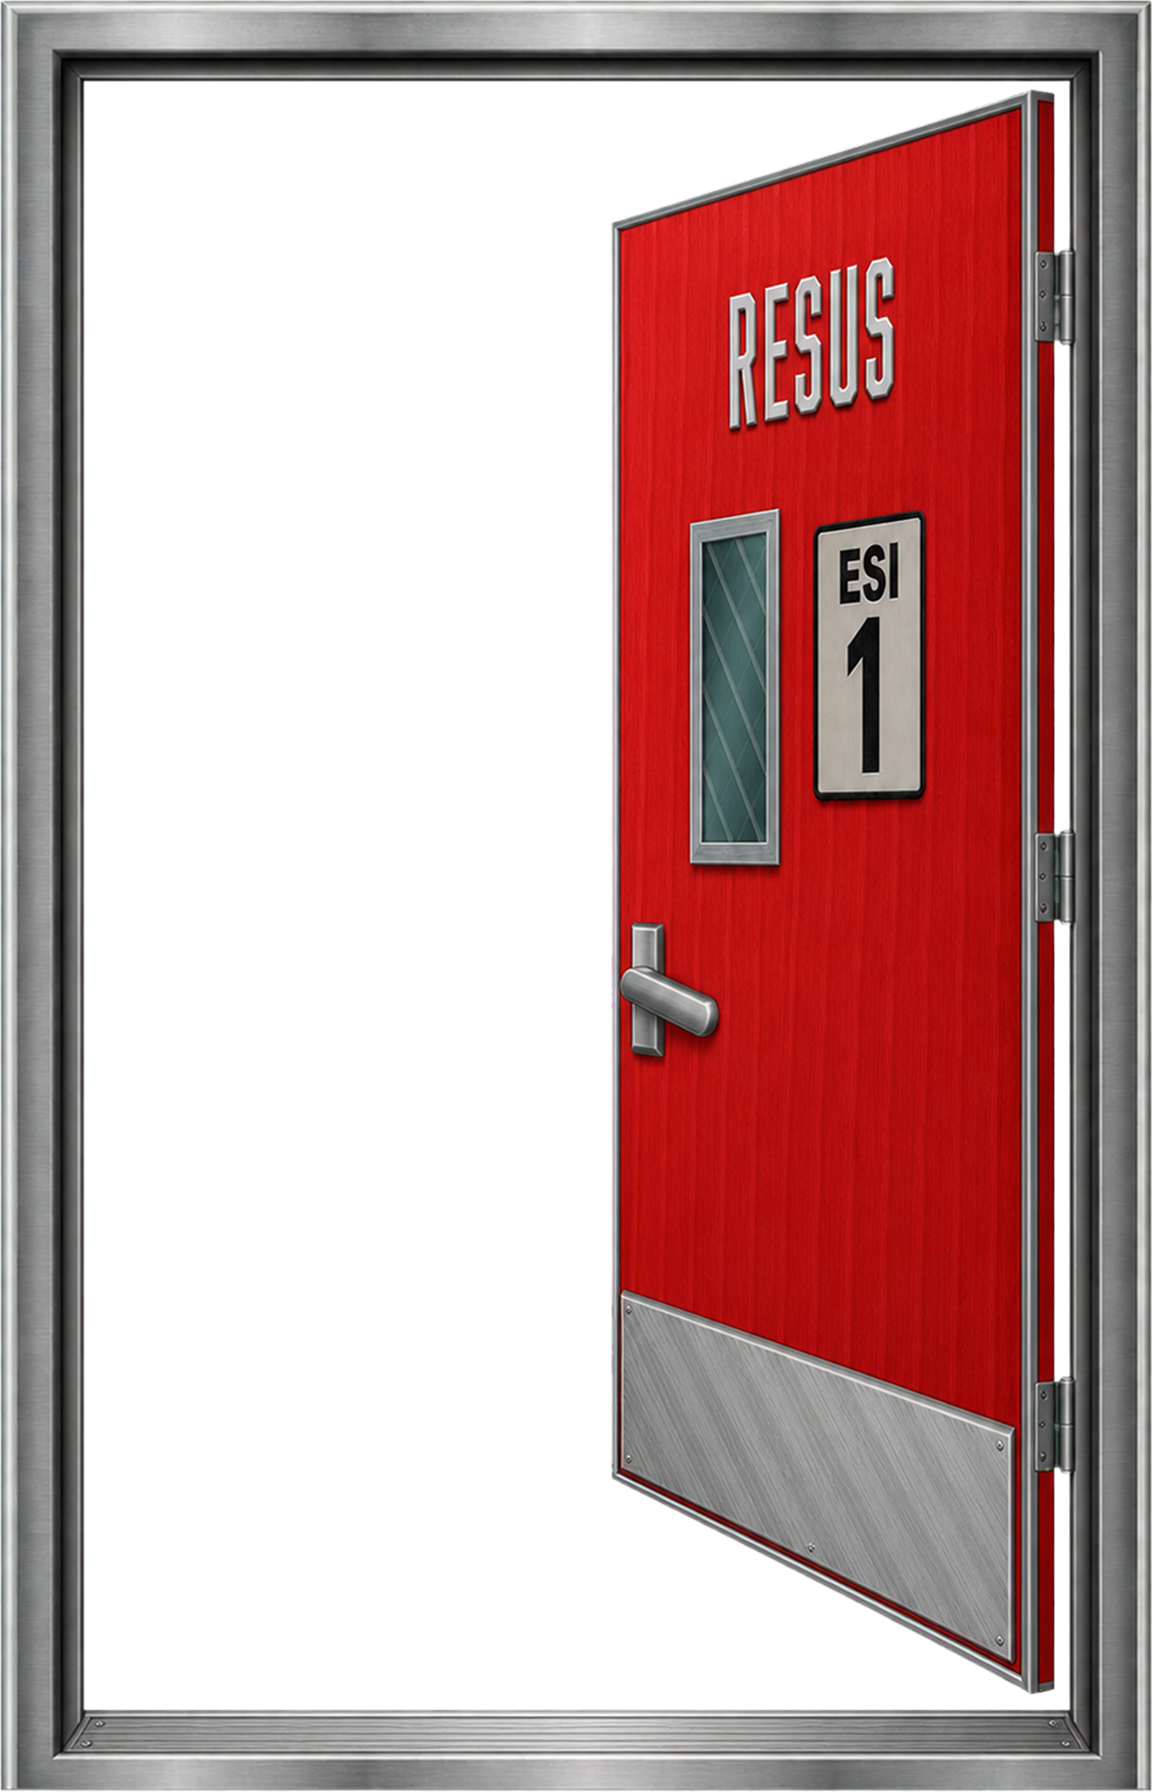
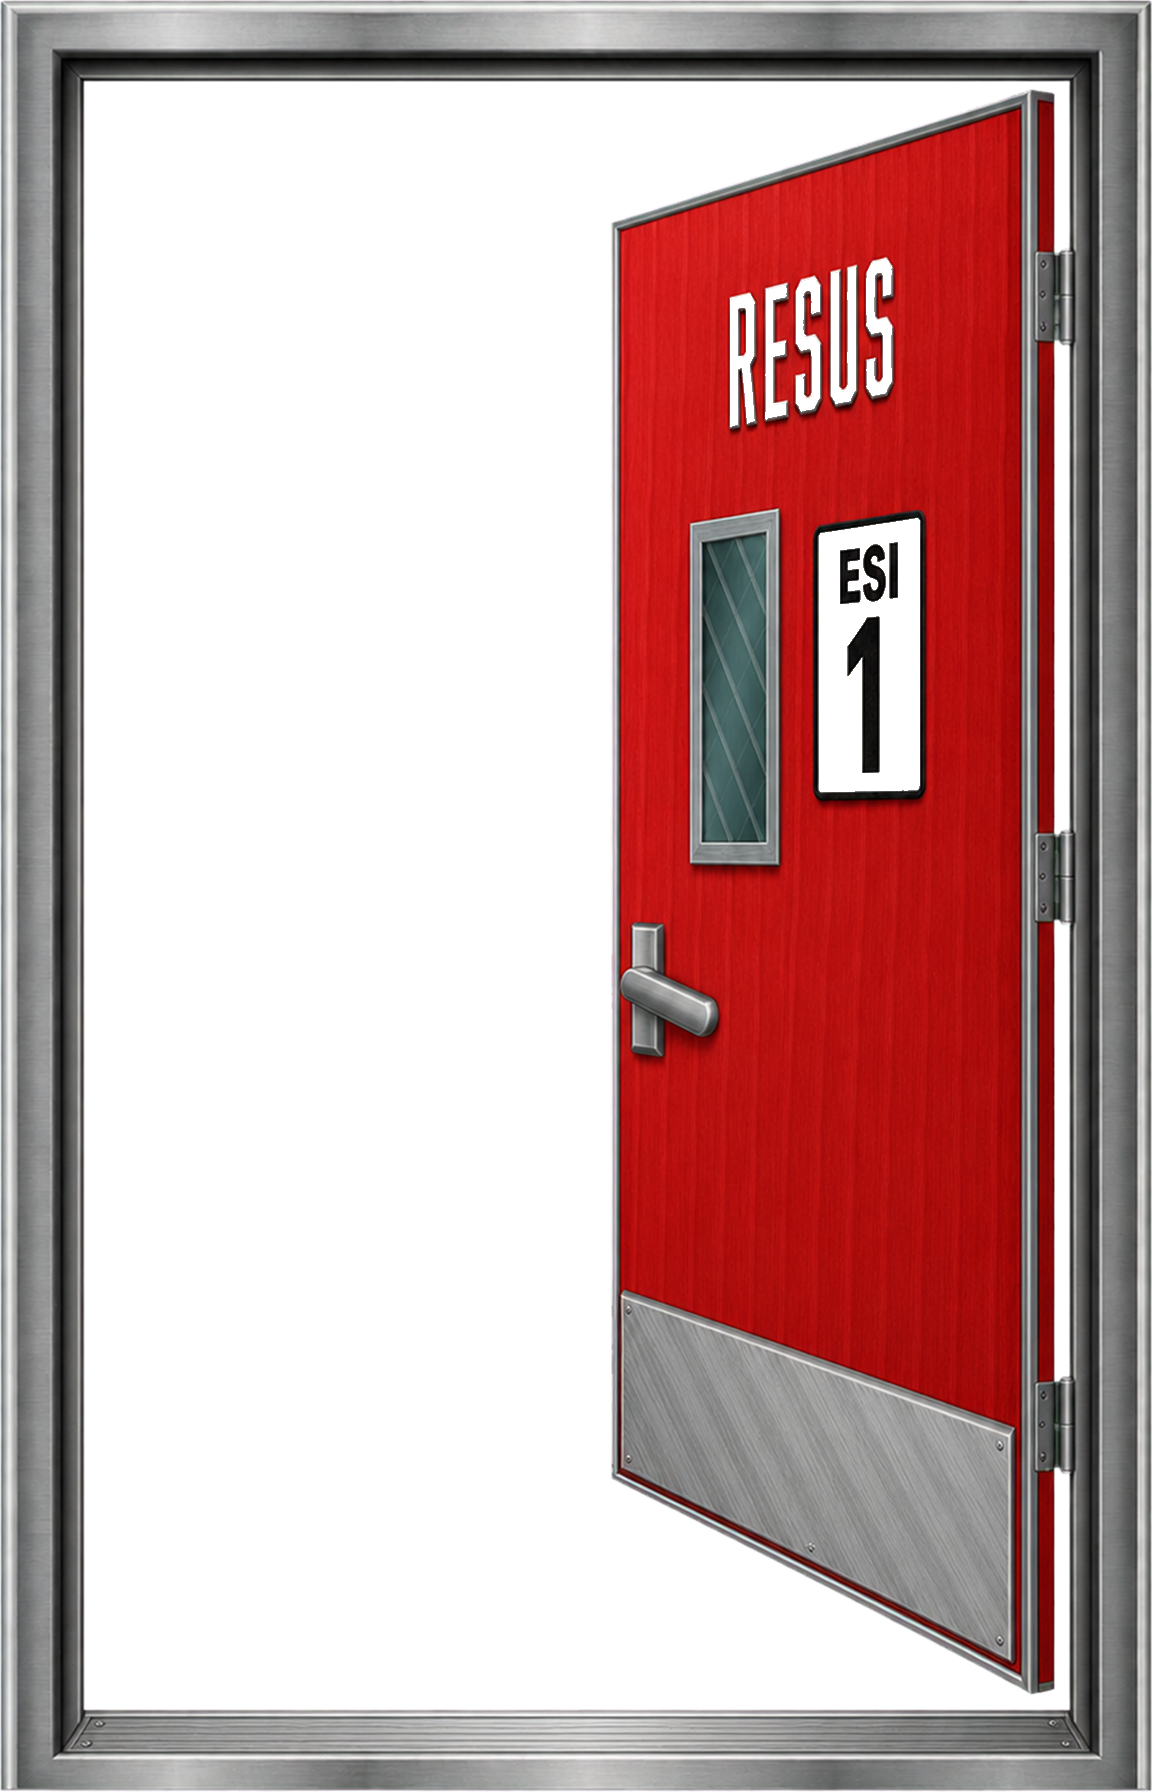
before redoing the door sign colors

Changed region(s): [[0.6875, 0.2812, 0.8125, 0.4688], [0.625, 0.125, 0.7812, 0.25]]

diff --git a/_testAppMobile/styles.css b/_testAppMobile/styles.css
@@ -34,9 +34,9 @@ body {
   display: grid;
   place-items: center;
   padding:
-    max(4px, env(safe-area-inset-top))
+    max(5dvh, env(safe-area-inset-top))
     max(4px, env(safe-area-inset-right))
-    max(4px, env(safe-area-inset-bottom))
+    max(5dvh, env(safe-area-inset-bottom))
     max(4px, env(safe-area-inset-left));
 }
 
@@ -47,8 +47,8 @@ button {
 
 .app-shell {
   position: relative;
-  width: min(100vw, calc(100dvh * 0.5625), 430px);
-  height: min(100dvh, calc(100vw * 1.7778), 764px);
+  width: min(calc(100vw - 8px), calc(90dvh * 0.5625));
+  height: min(90dvh, calc((100vw - 8px) * 1.7778));
   min-width: 300px;
   min-height: 533px;
   overflow: hidden;
@@ -124,17 +124,16 @@ button {
       calc(
         (
           100svh
-          - max(4px, env(safe-area-inset-top, 0px))
-          - max(4px, env(safe-area-inset-bottom, 0px))
+          - max(5svh, env(safe-area-inset-top, 0px))
+          - max(5svh, env(safe-area-inset-bottom, 0px))
         ) * 0.5625
-      ),
-      430px
+      )
     );
     height: min(
       calc(
         100svh
-        - max(4px, env(safe-area-inset-top, 0px))
-        - max(4px, env(safe-area-inset-bottom, 0px))
+        - max(5svh, env(safe-area-inset-top, 0px))
+        - max(5svh, env(safe-area-inset-bottom, 0px))
       ),
       calc(
         (
@@ -142,8 +141,7 @@ button {
           - max(4px, env(safe-area-inset-left, 0px))
           - max(4px, env(safe-area-inset-right, 0px))
         ) * 1.7778
-      ),
-      764px
+      )
     );
     min-width: 0;
     min-height: 0;

diff --git a/_testAppMobile/index.html b/_testAppMobile/index.html
@@ -5,7 +5,7 @@
     <meta name="viewport" content="width=device-width, initial-scale=1, viewport-fit=cover" />
     <meta name="theme-color" content="#071822" />
     <title>triageRush - Mobile Game</title>
-    <link rel="stylesheet" href="styles.css?v=20260803-patients-seen" />
+    <link rel="stylesheet" href="styles.css?v=20260803-responsive-shell-room-spacing" />
   </head>
   <body>
     <main class="app-shell" aria-label="triageRush mobile game">
@@ -310,7 +310,7 @@
       </section>
     </main>
 
-    <script src="assets.js?v=20260803-patients-seen"></script>
+    <script src="assets.js?v=20260803-all-door-contrast"></script>
     <script src="app.js?v=20260803-patients-seen"></script>
   </body>
 </html>

diff --git a/_testAppMobile/assets.js b/_testAppMobile/assets.js
@@ -31,8 +31,8 @@ window.TRIAGE_RUSH_ASSETS = Object.freeze({
           (room) => [
             room,
             Object.freeze({
-              closedDoor: `assets/game-page/triage-rooms-panel/door-${room}-closed.png`,
-              openDoor: `assets/game-page/triage-rooms-panel/door-${room}-open.png`,
+              closedDoor: `assets/game-page/triage-rooms-panel/door-${room}-closed.png?v=20260803-door-contrast`,
+              openDoor: `assets/game-page/triage-rooms-panel/door-${room}-open.png?v=20260803-door-contrast`,
               interior: `assets/game-page/triage-rooms-panel/background-${room}-room.png`
             })
           ]

diff --git a/docs/99-ai-handoff--2026-08-03-1746.md b/docs/99-ai-handoff--2026-08-03-1746.md
@@ -1,0 +1,140 @@
+# triageRush AI Handoff: Responsive Mobile Shell and Door-Sign Checkpoint
+
+**Last modified:** 2026-08-03
+
+**Latest change:** Recorded the desktop-responsive mobile-shell revision, the
+unsuccessful automated door-sign color edit, current verification, and the
+required next-session door review before further color work.
+
+**Current version:** 2026-08-03 17:46 PDT
+
+**Checkpoint message:** `before redoing the door sign colors`
+
+## Start here next session
+
+1. John must validate or repair all 14 `_testAppMobile` triage-room door PNGs
+   for sign and lettering color. The automated edits from this session were not
+   accepted visually and are still present in the working checkpoint.
+2. Preserve every door image's dimensions and alpha channel when repairing it.
+   Open-door transparency and any transparent area outside a frame are required.
+3. After the door artwork is accepted, update the door-asset cache key if needed
+   and verify both open and closed versions in the running mobile game.
+4. Revisit whether viewport-filling desktop sizing should remain independent of
+   Chrome zoom. No follow-up change was approved at session end.
+
+Treat `_testAppMobile/` as the current behavioral reference. The real production
+application under `triageRush/` remains future work.
+
+## Work completed during this session
+
+### Door-sign color attempt
+
+- Attempted deterministic color-only edits on all 14 open and closed door PNGs
+  under `_testAppMobile/assets/game-page/triage-rooms-panel/`.
+- Brightened RESUS and BEHAVIORAL HEALTH lettering, ESI and PSYCH sign
+  backgrounds, and DISCHARGE sign backgrounds while retaining dark sign text.
+- Mechanical checks showed unchanged dimensions, byte-identical alpha channels,
+  and RGB changes constrained to selected sign/lettering regions.
+- Visual review was not satisfactory. John decided to restore or hand-edit the
+  originals in a graphics program. The current PNGs remain modified and must not
+  be treated as approved artwork.
+- Added cache-version suffixes for door assets in the mobile asset manifest and
+  updated the matching script cache key in `index.html`.
+
+### Responsive desktop presentation
+
+- Removed the mobile game's fixed `430 x 764` CSS maximum when viewed in a
+  desktop browser.
+- Preserved the 9:16 game-shell ratio and narrow/mobile shrink behavior.
+- Added top and bottom breathing room equal to approximately half of one rendered
+  triage-room door: `5dvh` normally and `5svh` in the safe-viewport block.
+- Preserved hardware/browser safe-area insets when they exceed that spacing.
+- Updated the stylesheet cache key in `index.html`.
+
+## Approved decisions
+
+- The mobile game may grow beyond `430 x 764` in a desktop browser.
+- The shell retains its 9:16 aspect ratio.
+- Desktop top and bottom breathing room should each be approximately half the
+  rendered height of one room door.
+- The viewport-based sizing behavior means Chrome `+` and `-` zoom largely do
+  not change the shell's physical size. John is considering that tradeoff; no
+  alternative zoom behavior is approved yet.
+- The automated door-sign result is not approved.
+
+## Files materially changed
+
+- `_testAppMobile/styles.css`
+  - removed the fixed desktop size cap;
+  - introduced door-proportional vertical breathing room; and
+  - retained safe-viewport calculations.
+- `_testAppMobile/index.html`
+  - updated stylesheet and asset-manifest cache keys.
+- `_testAppMobile/assets.js`
+  - added door-asset cache-version suffixes.
+- `_testAppMobile/assets/game-page/triage-rooms-panel/door-*.png`
+  - 14 currently modified but visually unaccepted door assets.
+- `docs/99-ai-handoff--2026-08-03-1746.md`
+  - this handoff.
+- `docs/archive/99-ai-handoffs/99-ai-handoff--2026-08-03-1119.md`
+  - archived outgoing handoff.
+
+## Verification performed
+
+- `git diff --check` passed.
+- `node --check _testAppMobile/assets.js` passed.
+- The local preview server returned HTTP 200.
+- Browser viewport checks confirmed an exact 9:16 shell ratio and the intended
+  proportional spacing:
+  - `1920 x 1080`: shell `546.75 x 972`, 54 px above and below, door about
+    106.15 px high;
+  - `1600 x 1000`: shell `506.25 x 900`, 50 px above and below, door about
+    98.11 px high;
+  - `1280 x 720`: shell `364.5 x 648`, 36 px above and below, door 70 px high;
+  - `390 x 844`: width remained the limiting dimension and the game retained
+    its exact aspect ratio.
+- Door-file comparison against `HEAD` confirmed all 14 current PNGs still have
+  RGB changes. Their alpha channels remain byte-identical to `HEAD`, but this
+  does not make the visual edits acceptable.
+
+## Remaining concerns and TODOs
+
+### Required next action
+
+- **TODO — John:** Validate or repair the triage-room doors for sign color.
+  Inspect all ESI 1–5, Psych, and Discharge doors in both open and closed states.
+  Restore or hand-edit the artwork as needed before accepting it.
+
+### Door-edit constraints
+
+- Change only sign/lettering colors.
+- Do not change dimensions, geometry, placement, or unrelated pixels.
+- Keep ESI and PSYCH sign lettering dark while brightening the sign background.
+- For DISCHARGE, modify the sign background while keeping its lettering dark.
+- Preserve all open-door and outer-frame transparency.
+
+### Repository concern
+
+- `triageRush/assets/game-page/triage-rooms-panel/backups/` is currently
+  untracked and contains 14 door PNGs. It was deliberately preserved and
+  excluded from this checkpoint because it is an unrelated duplicate backup
+  directory. Decide separately whether to retain it locally, move it outside
+  the repository, or remove it.
+
+### Responsive-shell follow-up
+
+- Decide whether viewport-filling desktop behavior should remain effectively
+  insensitive to Chrome page zoom.
+- If an alternate behavior is desired, design an explicit game-scale control or
+  a desktop sizing strategy that does not rely exclusively on viewport units.
+
+## Recommended next-session direction
+
+1. Review this handoff and confirm the checkpoint exists on `origin/main`.
+2. Repair and visually validate the 14 door assets in the mobile game.
+3. Verify exact dimensions and alpha preservation after the hand edits.
+4. Refresh the door cache key and test every room open/closed in the browser.
+5. Decide whether the current desktop viewport sizing and Chrome zoom behavior
+   should remain.
+6. Resume production application work only after the reference artwork is
+   accepted.
